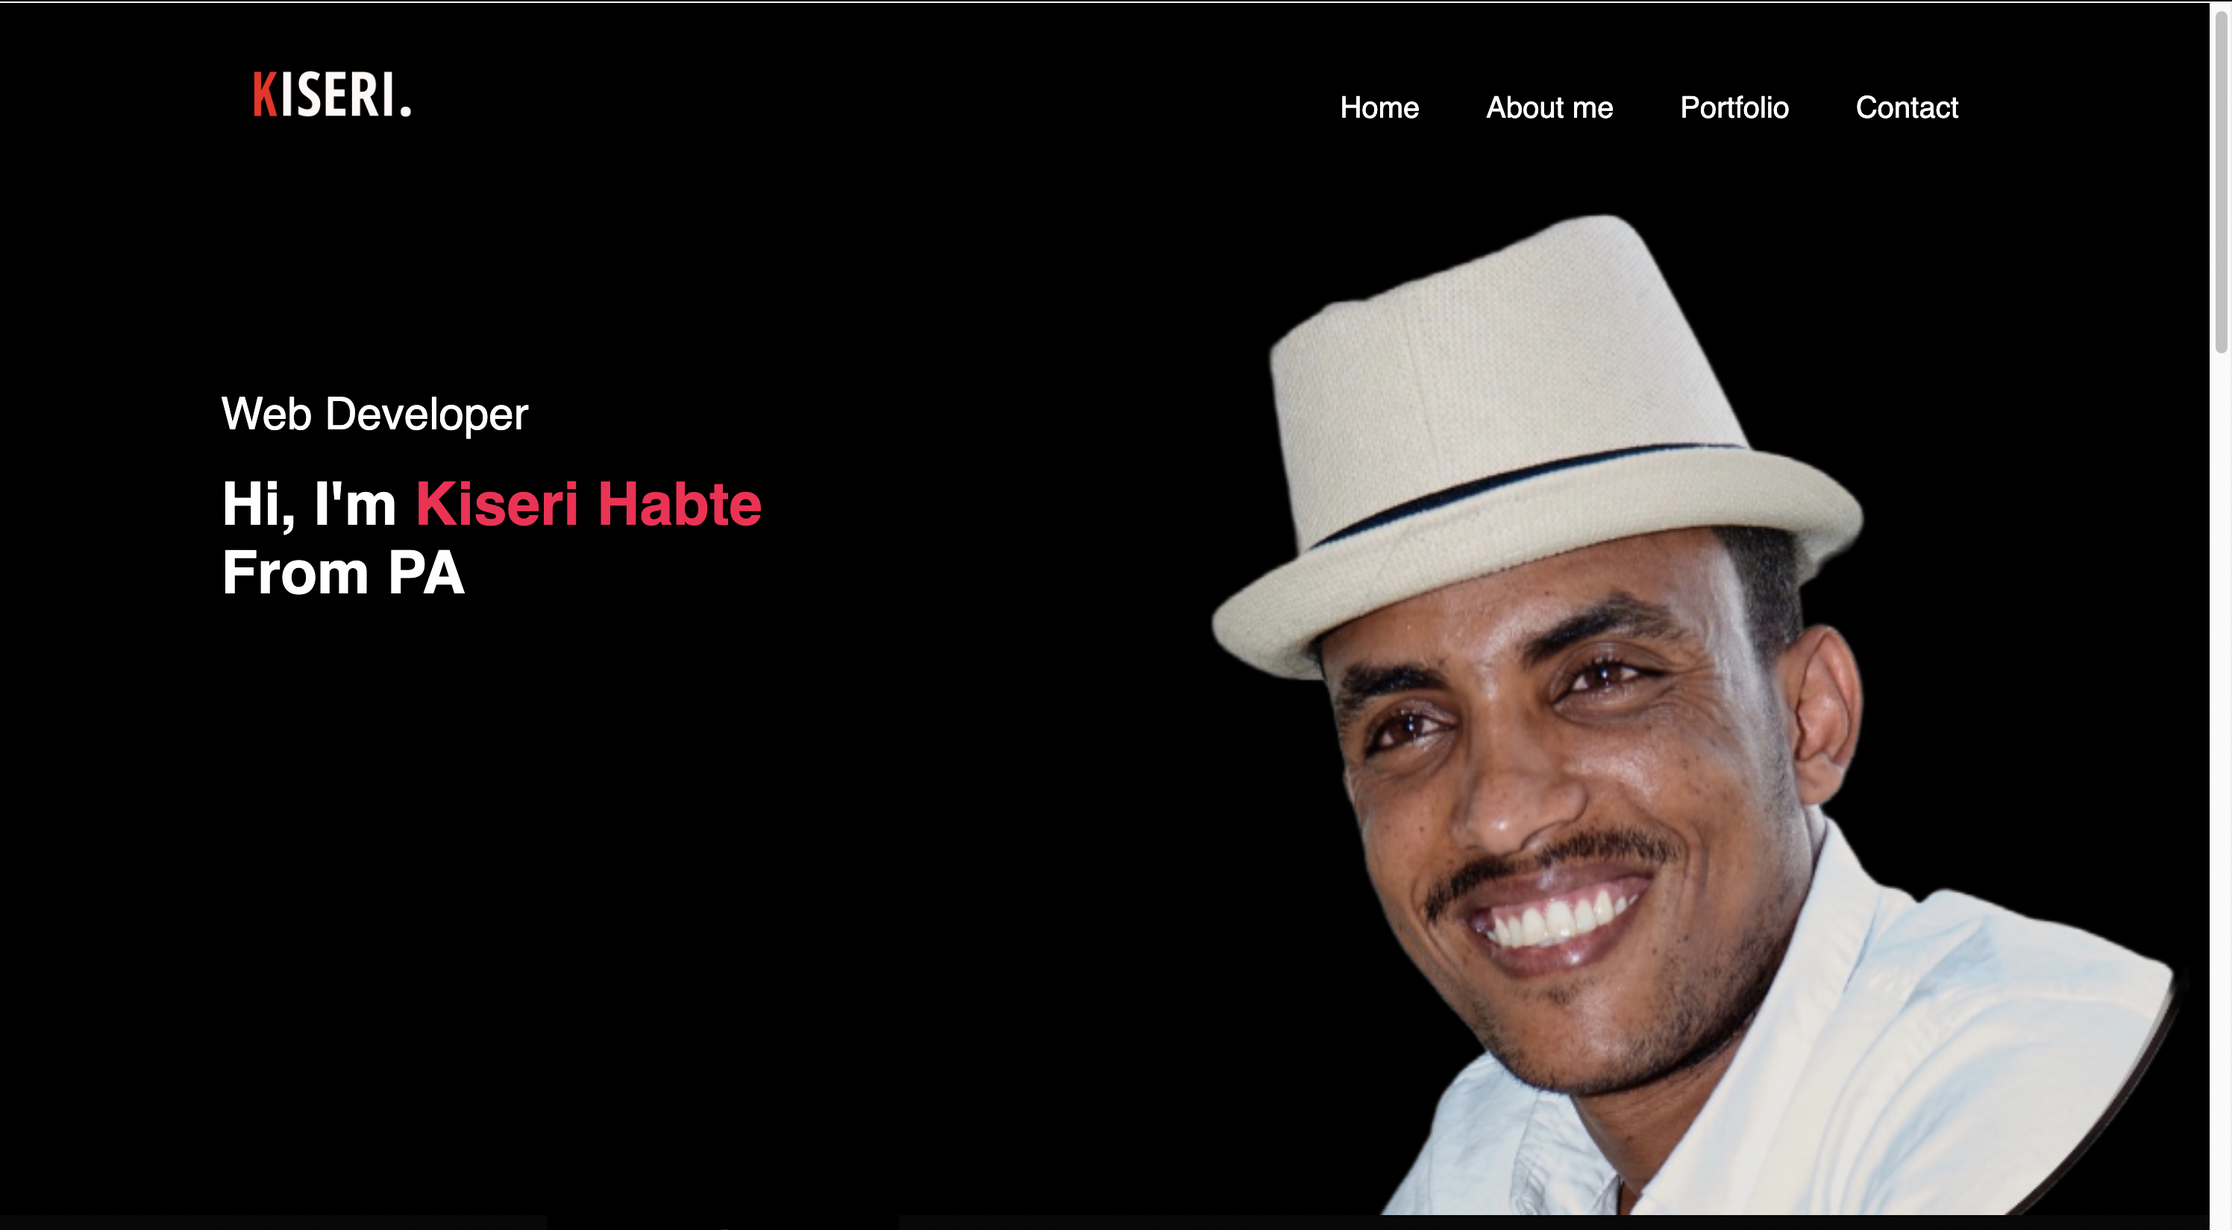
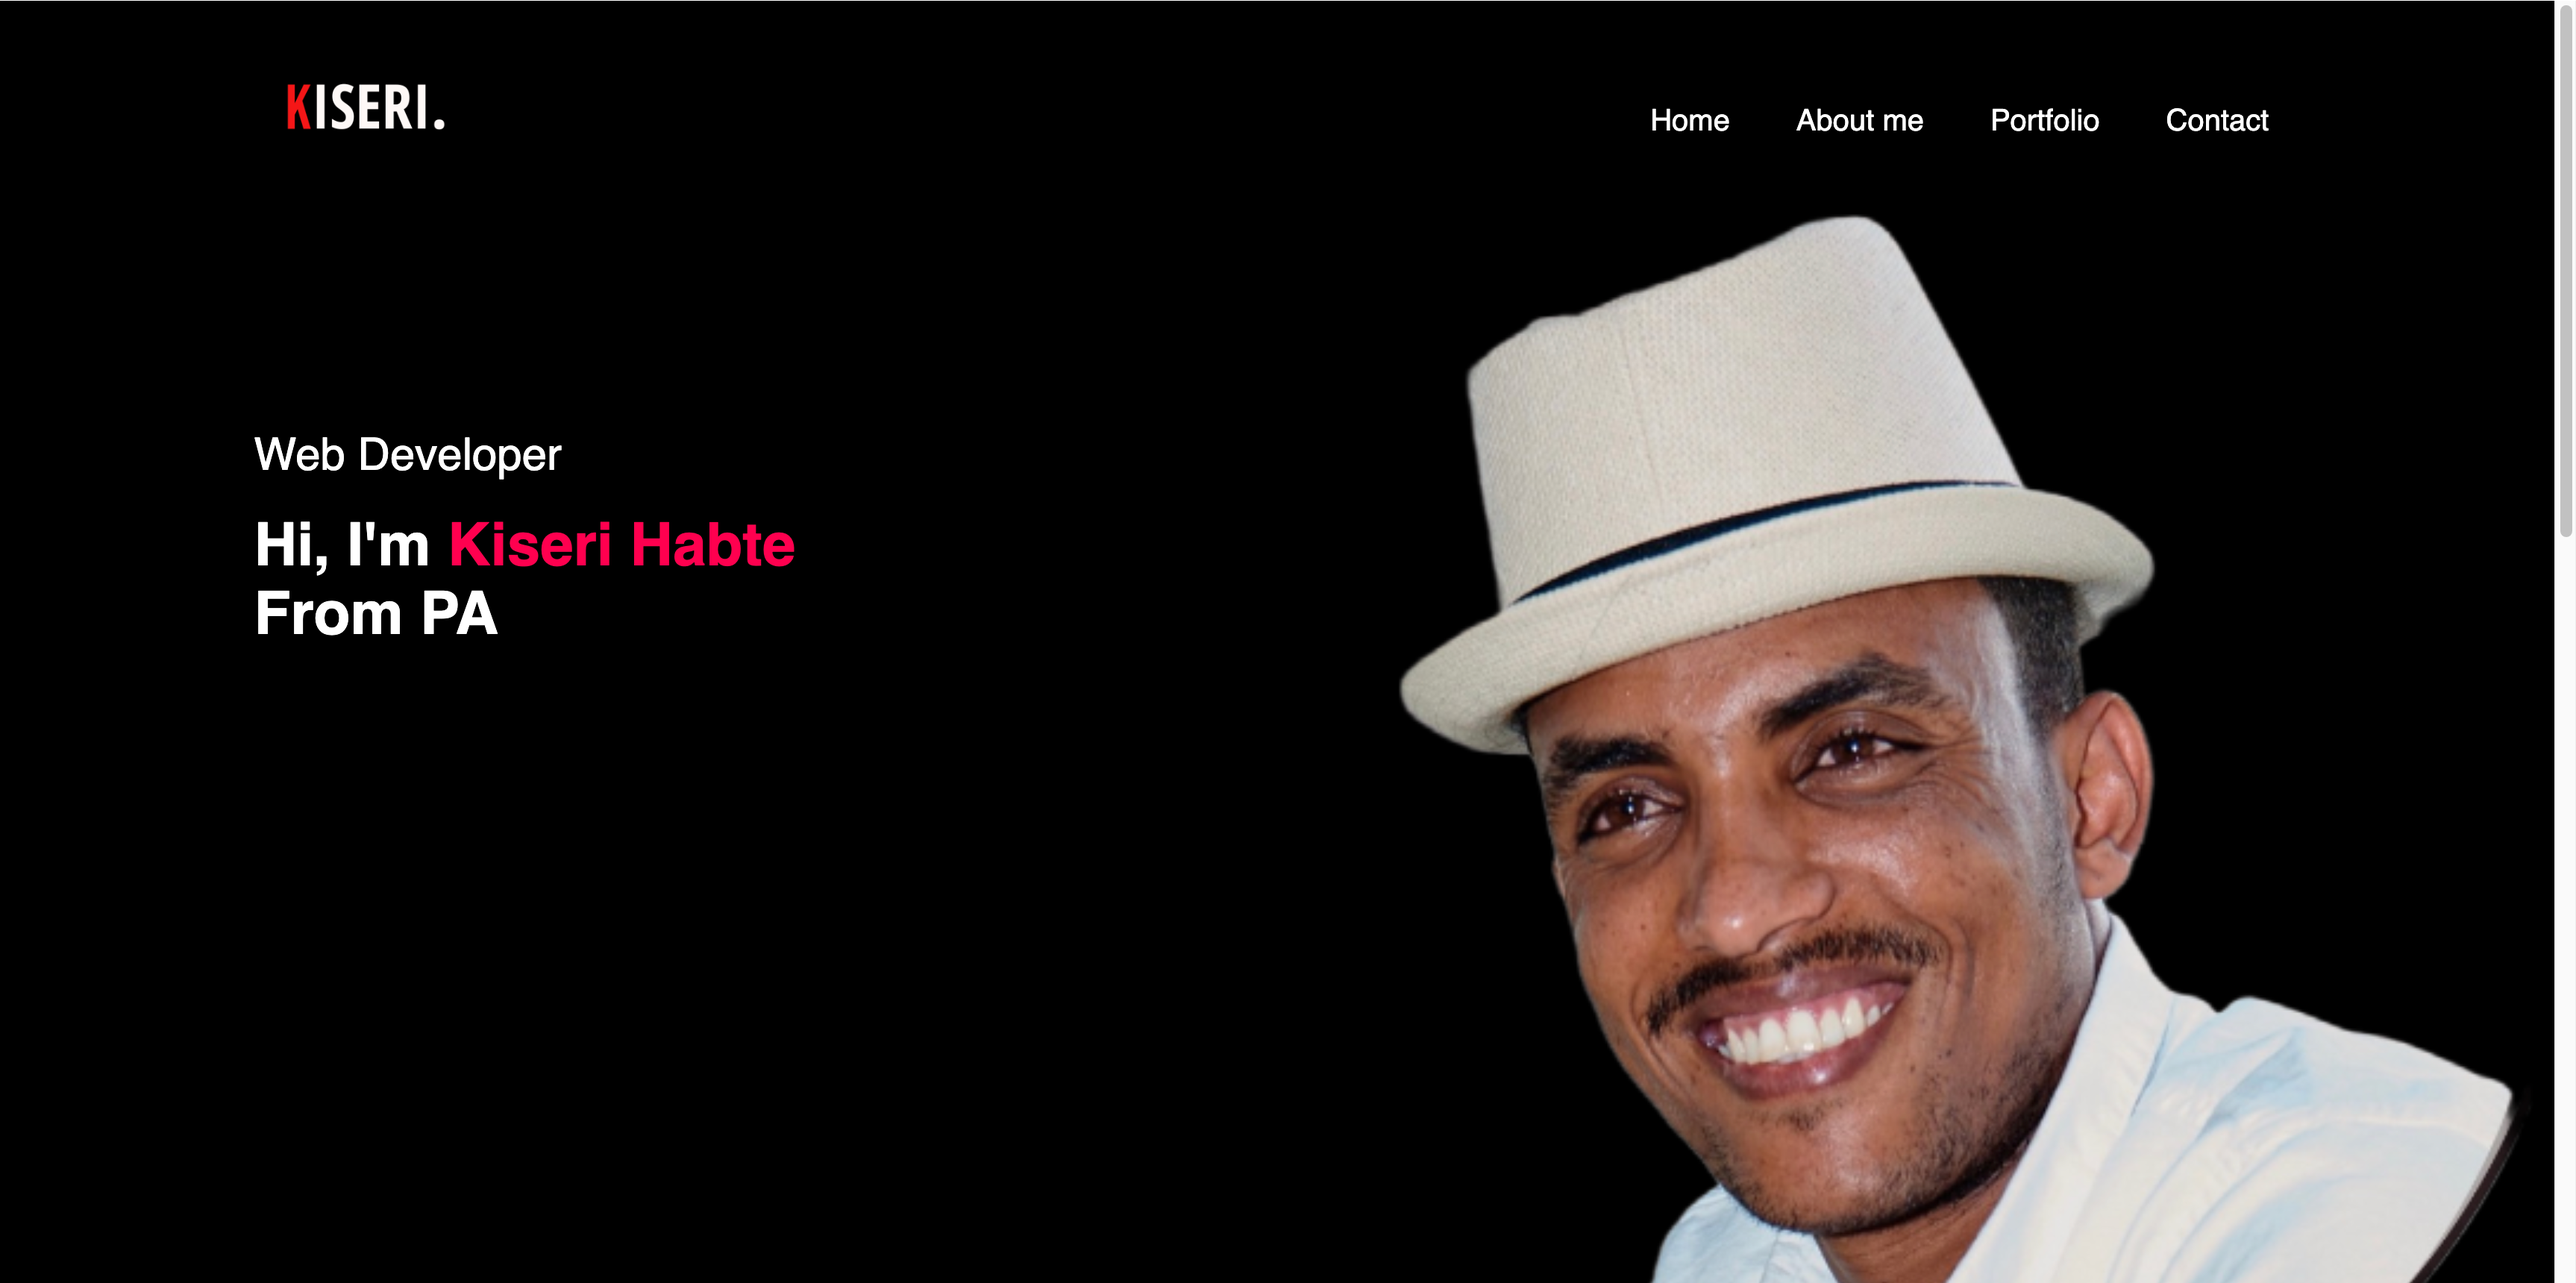
added deployed link and updated the mockup

diff --git a/README.md b/README.md
@@ -36,4 +36,7 @@ THEN I am presented with a responsive layout that adapts to my viewport
 ![alt text](./images/sc1.png)
 ![alt text](./images/sc2.png)
 ![alt text](./images/sc3.png)
-![alt text](./images/sc4.png)
+
+# Deployed Link
+
+https://kiserry21.github.io/PersonalPortfolio
